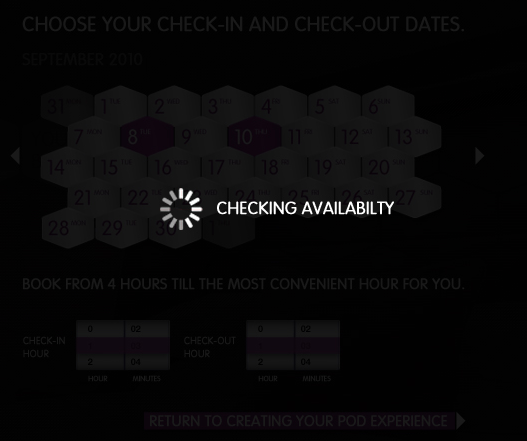
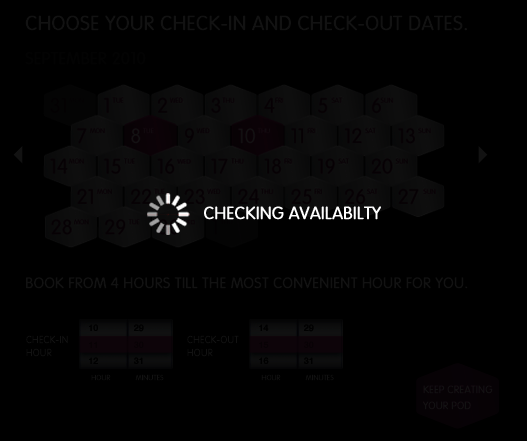
update concept

diff --git a/concepts/yotel/yotel.js b/concepts/yotel/yotel.js
@@ -3,6 +3,7 @@
 	var scrHeight = $(window).height();
 	var wrapper$;
 	var flyout$;
+	var tray$;
 	
 	
 	$.fn.xnav = function(){
@@ -114,8 +115,20 @@
 		wrapper$ = $('#wrapper');
 		resizeWindow();
 		flyout$ = $('#flyout');
+		tray$ = $('#tray');
 		$('#xnav').xnav();
 	});
 	$(window).resize(resizeWindow);
-	
+	var trayUp = false;
+	$(window).mousemove(function(e){
+		if (typeof tray$ !== 'undefined'){
+			if (e.pageY > (scrHeight - 200) && !trayUp){
+				tray$.animate({height: 40});
+				trayUp = true;
+			}else if (e.pageY < (scrHeight - 200) && trayUp){
+				tray$.animate({height: 30});
+				trayUp = false;
+			}
+		}
+	});
 })(jQuery);

diff --git a/concepts/yotel/yotel.css b/concepts/yotel/yotel.css
@@ -20,8 +20,9 @@ body {
 #tray {
 	background: rgba(255,255,255,0.7);
 	bottom: 0;
-	height: 125px;
+	height: 30px;
 	left: 0;
+	overflow: visible !important;
 	position: absolute;
 	width: 100%;
 }
@@ -61,8 +62,10 @@ body {
 	width: 100%;
 }
 #flyout {
-	background: rgba(0,0,0,0.8);
+	background: #000;
 	border-radius: 5px 0 0 5px;
+	-moz-border-radius: 5px 0 0 5px;
+	-webkit-border-radius: 5px 0 0 5px;
 	height: 500px;
 	margin: 0px;
 	padding: 10px;

diff --git a/concepts/yotel/index.html b/concepts/yotel/index.html
@@ -1,6 +1,3 @@
----
-layout: nil
----
 <!DOCTYPE html PUBLIC "-//W3C//DTD XHTML 1.0 Strict//EN" "http://www.w3.org/TR/xhtml1/DTD/xhtml1-strict.dtd">
 <html xmlns="http://www.w3.org/1999/xhtml" lang="en-GB" xml:lang="en-GB">
 	<head>
@@ -66,7 +63,6 @@ layout: nil
 
 				</div>
 			</div>
-    <img src="logos.png" alt="" style="position: absolute; bottom: 10px; left: 10px;" />
 		<div id="xnav" class="xnav xnav-showPOD">
 			<ul>
 				<li>

diff --git a/js/dt_ui.js b/js/dt_ui.js
@@ -16,7 +16,7 @@
 					'		' + this.pubDate.substr(5,2) +
 					'	</span> ' +
 					'	<a href="' + this.link + '">' + this.title + '</a>' +
-					'</li>'
+					'</li>';
 					
 					if (i < 5){
 						tweetsLeft$.append(html);					
